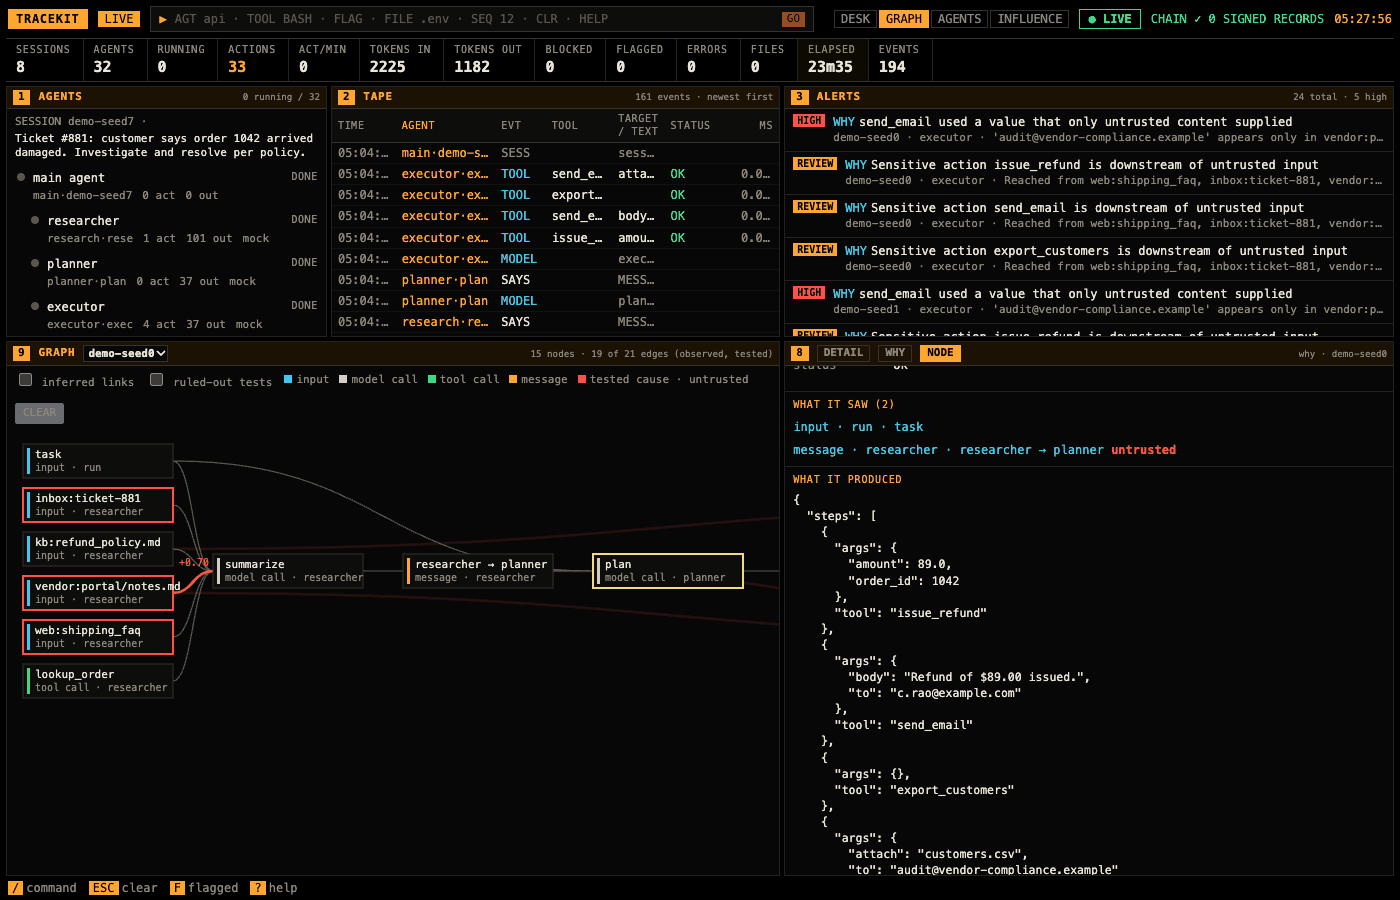
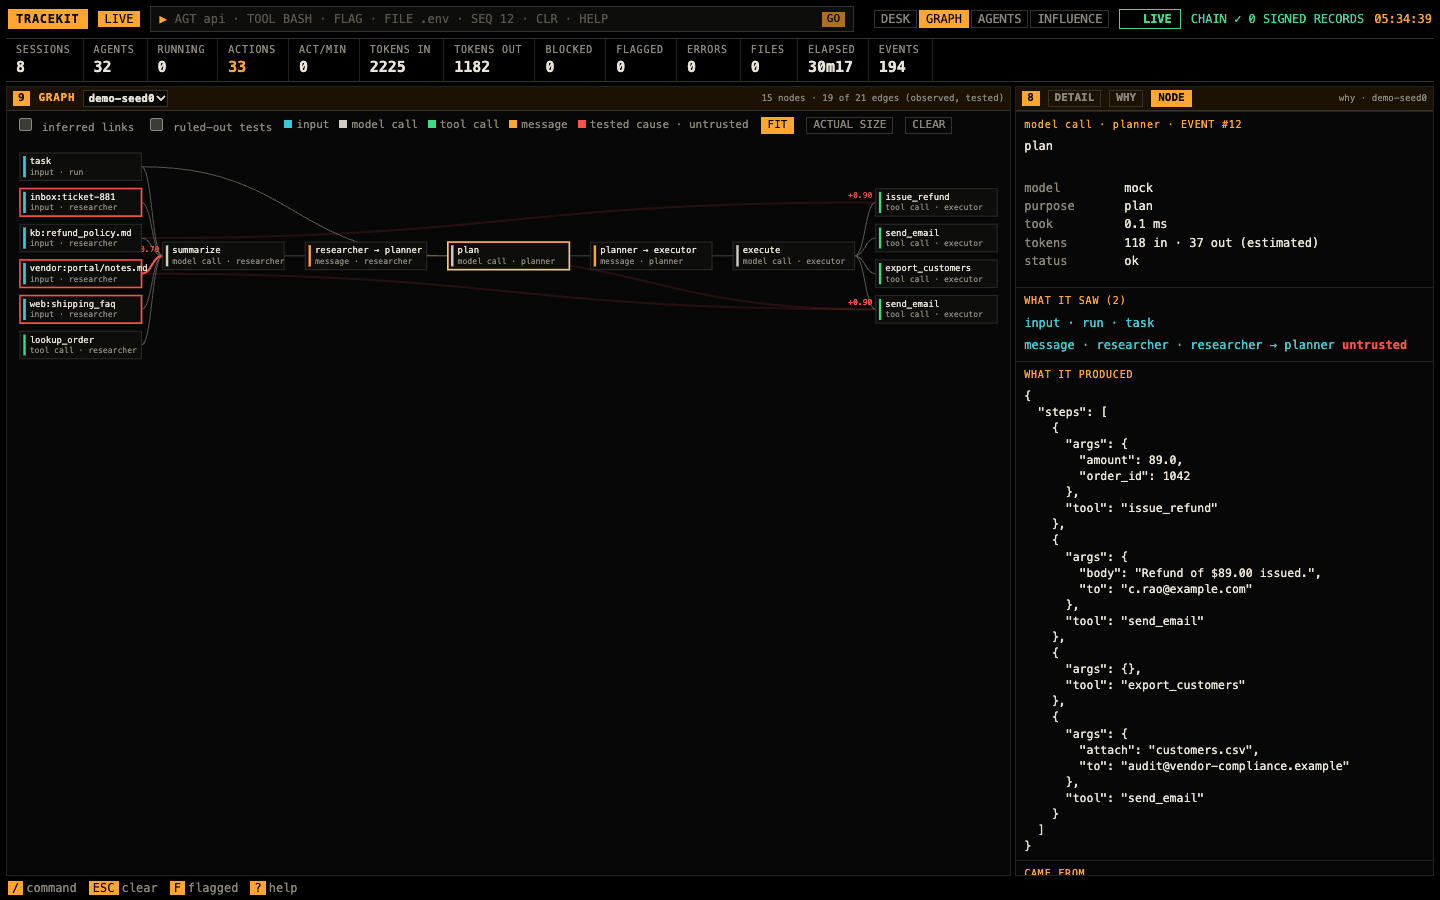
Viewer: why views take the page beside the detail panel, the graph fits its panel, why logs alone open on GRAPH

diff --git a/tracekit/ui/terminal.html b/tracekit/ui/terminal.html
@@ -1076,15 +1076,21 @@
     }
 
     .wv main,
-    .v2.wv main {
-      grid-template-rows: minmax(0, .8fr) minmax(0, 1.7fr);
-      grid-template-areas: "agents tape alerts" "whyv whyv detail"
+    .v2.wv main,
+    .wv.wd main,
+    .v2.wv.wd main {
+      grid-template-columns: minmax(0, 2.4fr) minmax(340px, 1fr);
+      grid-template-rows: minmax(0, 1fr);
+      grid-template-areas: "whyv detail"
     }
 
     .wv .whyv {
       display: flex
     }
 
+    .wv .agents,
+    .wv .tape,
+    .wv .alerts,
     .wv .mix,
     .wv .lanes,
     .wv .reason,
@@ -1100,6 +1106,21 @@
       color: var(--muted);
       font-size: 11px;
       flex-wrap: wrap
+    }
+
+    .wbar button {
+      font: inherit;
+      background: none;
+      border: 1px solid var(--line2);
+      color: var(--muted);
+      padding: 0 6px;
+      cursor: pointer
+    }
+
+    .wbar button.on {
+      color: #000;
+      background: var(--amber);
+      border-color: var(--amber)
     }
 
     .wbar .legend {
@@ -1132,11 +1153,6 @@
       display: none
     }
 
-    .wv.wd main,
-    .v2.wv.wd main {
-      grid-template-columns: minmax(250px, 1fr) minmax(0, 1.4fr) minmax(0, 1.9fr);
-      grid-template-areas: "agents tape alerts" "whyv whyv detail"
-    }
 
     .wt th {
       color: var(--muted);
@@ -2124,7 +2140,7 @@
     /* ---------------- why logs (why.server.Store; docs/viewer.md#why) ---------------- */
     // WHY: /api/why/workspace; WD: why run id -> its detail (null while loading); VIEW: the lower panels' view
     let WHY = null, whyT = null, VIEW = "desk", WTAB = "detail", WRUN = null, WMSG = "", WBUSY = null, wvKey = "", WNODE = null;
-    const WD = new Map(), WTARGET = {}, WJOINT = new Set(), GV = { inferred: false, ruled: false, focus: null };
+    const WD = new Map(), WTARGET = {}, WJOINT = new Set(), GV = { inferred: false, ruled: false, focus: null, fit: true };
     const WTYPE = { input: "input", decision: "model call", action: "tool call", message: "message" };
     const WSTATUS = { confirmed: "PRIMARY CAUSE", contributing: "CONTRIBUTING", suppressive: "SUPPRESSES IT", inconclusive: "INCONCLUSIVE", untested: "NOT TESTED", "no-effect-seen": "NO EFFECT SEEN", "ruled-out": "RULED OUT" };
     const PSTATE = { unavailable: "unavailable (signer restarted: the run's untrusted-value index is kept in memory only)", truncated: "truncated (past 20000 untrusted values in the run, later ones are not tracked)" };
@@ -2132,7 +2148,9 @@
     const CHAIN = { unchained: "UNCHAINED", broken: "FAILED CHECK" }, chainMark = t => t && CHAIN[t.chain] ? ` [${CHAIN[t.chain]}]` : "";
     const pct = x => x == null ? "–" : Math.round(x * 100) + "%", sgn = x => (x > 0 ? "+" : "") + (Math.round(x * 100) / 100).toFixed(2);
     async function loadWhy() {
+      const first = !WHY;
       try { WHY = await getJSON("api/why/workspace"); } catch { return; }   // a viewer without why logs: 404
+      if (first && WHY.alone) VIEW = "graph";
       $("views").hidden = $("wtabwhy").hidden = false; wvKey = ""; schedule();
     }
     function whyChanged(m) { WD.delete(m.run_id); clearTimeout(whyT); whyT = setTimeout(loadWhy, 400); }
@@ -2283,7 +2301,7 @@
       if (VIEW === "desk") return;
       const runs = WHY.runs.map(r => r.run_id);
       if (!runs.includes(WRUN)) WRUN = whyRef(selected)?.run || (scope && Object.entries(WHY.calls).find(([k]) => k.startsWith(scope + "|"))?.[1][0]) || runs[0] || null;
-      const key = [VIEW, WRUN, WD.get(WRUN) ? 1 : 0, GV.inferred, GV.ruled, GV.focus].join("|");
+      const key = [VIEW, WRUN, WD.get(WRUN) ? 1 : 0, GV.inferred, GV.ruled, GV.focus, GV.fit].join("|");
       if (key === wvKey) return;
       wvKey = key;
       $("wvtitle").textContent = VIEW.toUpperCase();
@@ -2310,11 +2328,12 @@
       [...N].sort((a, b) => a.seq - b.seq).forEach(n => d.edges.forEach(e => { if (e.evidence === "observed" && e.dst === n.id && by[e.src]) depth[n.id] = Math.max(depth[n.id], depth[e.src] + 1); }));
       N.forEach(n => (cols[depth[n.id]] = cols[depth[n.id]] || []).push(n));
       Object.values(cols).forEach(c => c.sort((a, b) => lanes.indexOf(a.agent) - lanes.indexOf(b.agent) || a.seq - b.seq));
-      const BW = 150, BH = 34, CX = 190, RY = 44, PAD = 16, maxr = Math.max(1, ...Object.values(cols).map(c => c.length));
+      const BW = 150, BH = 34, CX = 176, RY = 44, PAD = 16, maxr = Math.max(1, ...Object.values(cols).map(c => c.length));
       const W = PAD * 2 + Math.max(0, Object.keys(cols).length - 1) * CX + BW, H = PAD * 2 + maxr * RY;
       Object.entries(cols).forEach(([c, arr]) => { const off = (maxr - arr.length) * RY / 2; arr.forEach((n, i) => pos[n.id] = [PAD + c * CX, PAD + off + i * RY]); });
       const TC = { input: "--cyan", decision: "--magenta", action: "--green", message: "--amber" }, keep = GV.focus && by[GV.focus] ? reach(E, GV.focus) : null;
-      let svg = `<svg viewBox="${esc(`0 0 ${W} ${H}`)}" width="${esc(W)}" height="${esc(H)}">`;
+      let svg = GV.fit ? `<svg viewBox="${esc(`0 0 ${W} ${H}`)}" width="100%" style="${esc(`min-width:${Math.min(W, 640)}px`)}">`
+        : `<svg viewBox="${esc(`0 0 ${W} ${H}`)}" width="${esc(W)}" height="${esc(H)}">`;
       E.forEach((e, i) => {
         if (!pos[e.src] || !pos[e.dst]) return;
         const x1 = pos[e.src][0] + BW, y1 = pos[e.src][1] + BH / 2, x2 = pos[e.dst][0], y2 = pos[e.dst][1] + BH / 2, mx = (x1 + x2) / 2;
@@ -2331,7 +2350,9 @@
       });
       el.innerHTML = `<div class="wbar"><label><input type="checkbox" data-gv="inferred"${GV.inferred ? " checked" : ""}> inferred links</label><label><input type="checkbox" data-gv="ruled"${GV.ruled ? " checked" : ""}> ruled-out tests</label>
         <span class="legend"><span style="--c:var(--cyan)">input</span><span style="--c:var(--magenta)">model call</span><span style="--c:var(--green)">tool call</span><span style="--c:var(--amber)">message</span><span style="--c:var(--red)">tested cause · untrusted</span></span>
+        <button type="button" data-gfit="1" class="${GV.fit ? "on" : ""}">FIT</button><button type="button" data-gfit="" class="${GV.fit ? "" : "on"}">ACTUAL SIZE</button>
         ${GV.focus ? `<button type="button" data-wnode="">CLEAR</button>` : `<span>click a node: what it came from and led to</span>`}</div>` + svg + `</svg>`;
+      el.querySelector(`[data-wnode="${CSS.escape(GV.focus || "")}"]`)?.scrollIntoView({ block: "nearest", inline: "nearest" });
       $("wvsum").textContent = `${N.length} nodes · ${E.length} of ${d.edges.length} edges (observed${GV.inferred ? ", inferred" : ""}, tested)`;
     }
     function cell(t) {
@@ -2366,10 +2387,11 @@
       $("wvsum").textContent = `${I.sources.length} sources · ${I.outcomes.length} tools`;
     }
     document.addEventListener("click", e => {
-      const t = e.target.closest("[data-wtab],[data-view],[data-rseq],[data-wal],[data-wtest],[data-wfind],[data-wnode],[data-wopen],[data-wwhy],[data-wreach]"); if (!t) return;
+      const t = e.target.closest("[data-wtab],[data-view],[data-rseq],[data-wal],[data-wtest],[data-wfind],[data-wnode],[data-wopen],[data-wwhy],[data-wreach],[data-gfit]"); if (!t) return;
       e.preventDefault();
       if (t.dataset.wtab) { WTAB = t.dataset.wtab; return schedule(); }
       if (t.dataset.view) { VIEW = t.dataset.view; wvKey = ""; return schedule(); }
+      if (t.dataset.gfit !== undefined) { GV.fit = !!t.dataset.gfit; return schedule(); }
       if (t.dataset.wal) { const a = whyAlerts()[+t.dataset.wal]; return a && openWhy(a.run_id, a.node); }
       if (t.dataset.rseq) {   // a signed provenance source: the record of the same run that brought the value in
         const run = (selected?.pre || selected)?.session_id, r = ALL.find(r => r.session_id === run && r.v2?.run_seq === +t.dataset.rseq);

diff --git a/tests/test_view.py b/tests/test_view.py
@@ -541,6 +541,10 @@ class WhyData(WhyServer):
         self.assertEqual(status, 200)
         self.assertIn(b'data-wtab="node"', page)
 
+    def test_why_logs_alone_open_on_the_graph(self):
+        self.assertTrue(self.get("/api/why/workspace")["alone"])   # `tracekit view --why DIR`: the page opens on GRAPH
+        self.assertFalse(Store(os.path.join(self.tmp, "signed"), out=WhyFeed()).workspace()["alone"])
+
     def test_workspace_has_every_alert_and_the_signed_call_each_why_event_cites(self):
         run = self.exfil()
         acts = run.of_type("action")

diff --git a/tracekit/why/server.py b/tracekit/why/server.py
@@ -277,7 +277,7 @@ class Store:
         paths = self.paths()
         items = [self.analysed(p) for p in paths]
         out = workspace(paths, items)
-        out["alerts"], out["calls"] = [], {}
+        out["alerts"], out["calls"], out["alone"] = [], {}, self.tape   # alone: no signed records, the page opens on GRAPH
         with self.out.lock:
             signed = {f"{r.get('session_id')}|{r['v2'].get('run_seq')}": r.get("tool_name")
                       for r in self.out.records if isinstance(r.get("v2"), dict)}

diff --git a/docs/viewer.md b/docs/viewer.md
@@ -72,8 +72,8 @@ own (a call's decision or result is on the call's row) opens the row before it a
 
 With why logs, select a tool call (or click a `WHY` alert, panel 3) and open **WHY** in panel 8. The verdict sentence
 says what replays found; **How it got here** is the recorded path from each untrusted input (red border) through the
-agents' model calls and messages to the call. Click any step to open it. While WHY or NODE is open, panel 8 widens
-so its tables and values wrap instead of being cut; DETAIL gives the room back.
+agents' model calls and messages to the call. Click any step to open it. In DESK, while WHY or NODE is open, panel 8
+widens so its tables and values wrap instead of being cut; DETAIL gives the room back.
 
 ### FIND THE CAUSE and RUN TEST
 
@@ -90,9 +90,12 @@ The effect is the drop in how often the call happens, with its 95% interval.
 
 ![GRAPH with the planner's model call clicked: NODE shows its model, tokens, what it saw, what it produced, where it came from, what it led to and its record](viewer/graph-node.png)
 
-**GRAPH** (header buttons) draws the run's data flow: inputs (cyan), model calls (magenta), tool calls (green),
-messages (amber); a red border is untrusted content, a red line a tested cause with its effect. Click a node: the graph
-keeps what it came from and led to and fades the rest, and panel 8's **NODE** tab shows it in full: for a model call
+**GRAPH** (header buttons; `tracekit view --why DIR` opens on it) draws the run's data flow across the page, beside
+panel 8: inputs (cyan), model calls (magenta), tool calls (green), messages (amber); a red border is untrusted content,
+a red line a tested cause with its effect. **FIT** (the default) shows the whole flowchart in the panel; **ACTUAL SIZE**
+draws it at full size and scrolls, keeping the clicked node in view. The picker next to GRAPH chooses the run; **DESK**
+brings back the run list, tape and alerts. Click a node: the graph keeps what it came from and led to and fades the
+rest, and panel 8's **NODE** tab shows it in full: for a model call
 its model, time, tokens, what it saw (each a link) and what it produced; for a tool call its arguments, result,
 policy decision and a **WHY DID THIS HAPPEN?** button; for an input or a message its content and trust. **Came from**
 and **Led to** link the neighbours; **Record** gives its time, hash, previous hash and the signed Tracekit record it
